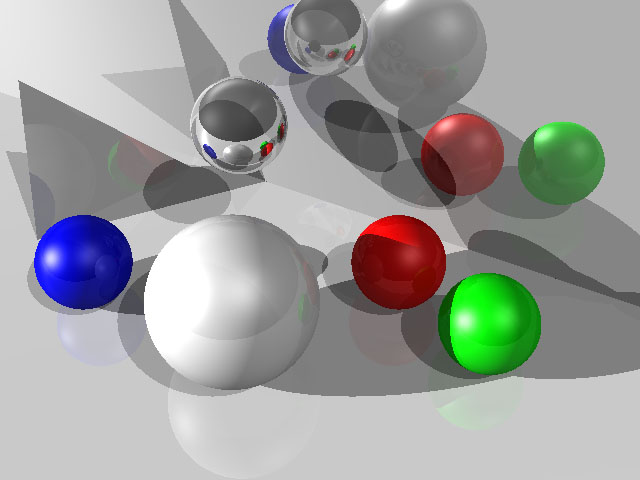
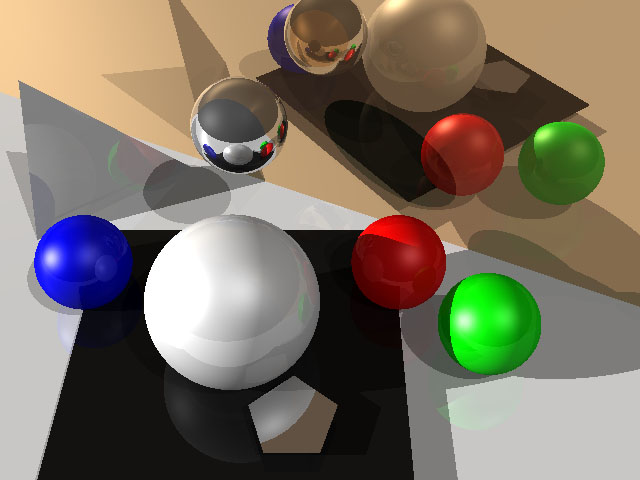
view distance

diff --git a/src/Tracer.cpp b/src/Tracer.cpp
@@ -24,6 +24,8 @@ _ambient_light(0.3, 0.3, 0.3),
 _background(0.0, 0.0, 0.0),
 _mirror_recursion_depth(1),
 _depth_mode(false),
+_min_visual(0.1),
+_max_visual(50),
 _world(world)
 {
 
@@ -58,7 +60,8 @@ HitRecord Tracer::hitSurface(Ray ray, double t0, double t1)
 Color Tracer::rayColor(Ray ray, int mirror_depth)
 {
 	// hit test
-	HitRecord cam_hit = hitSurface(ray, 0.0001, INFINITY);
+	double min_vis = mirror_depth == _mirror_recursion_depth ? _min_visual : 0.00001;
+	HitRecord cam_hit = hitSurface(ray, min_vis, _max_visual);
 
 	Color color;
 	// shading
@@ -85,7 +88,7 @@ Color Tracer::rayColor(Ray ray, int mirror_depth)
 				Ray light_ray;
 				light_ray.origin = hit_point;
 				light_ray.direction = -pLight->_direction;
-				HitRecord light_hit = hitSurface(light_ray, 0.00001, INFINITY);
+				HitRecord light_hit = hitSurface(light_ray, 0.00001, _max_visual);
 				if (light_hit._surface < 0)
 					valid_lights.push_back(pLight);
 			}

diff --git a/src/Parser.cpp b/src/Parser.cpp
@@ -54,6 +54,11 @@ void Parser::readSource(const string& filename)
 			worldfs >> v1;
 			_tracer->_fd = v1;
 		}
+		else if (obj_name == "view_distance"){
+			worldfs >> v1 >> v2;
+			_tracer->_min_visual = v1;
+			_tracer->_max_visual = v2;
+		}
 		else if (obj_name == "resolution"){
 			worldfs >> _tracer->_pixel_nx >> _tracer->_pixel_ny;
 		}

diff --git a/include/Tracer.h b/include/Tracer.h
@@ -22,6 +22,8 @@ class Tracer{
 	
 	int _mirror_recursion_depth;
 	bool _depth_mode;
+	double _min_visual;
+	double _max_visual;
 
 	World* _world;
 
